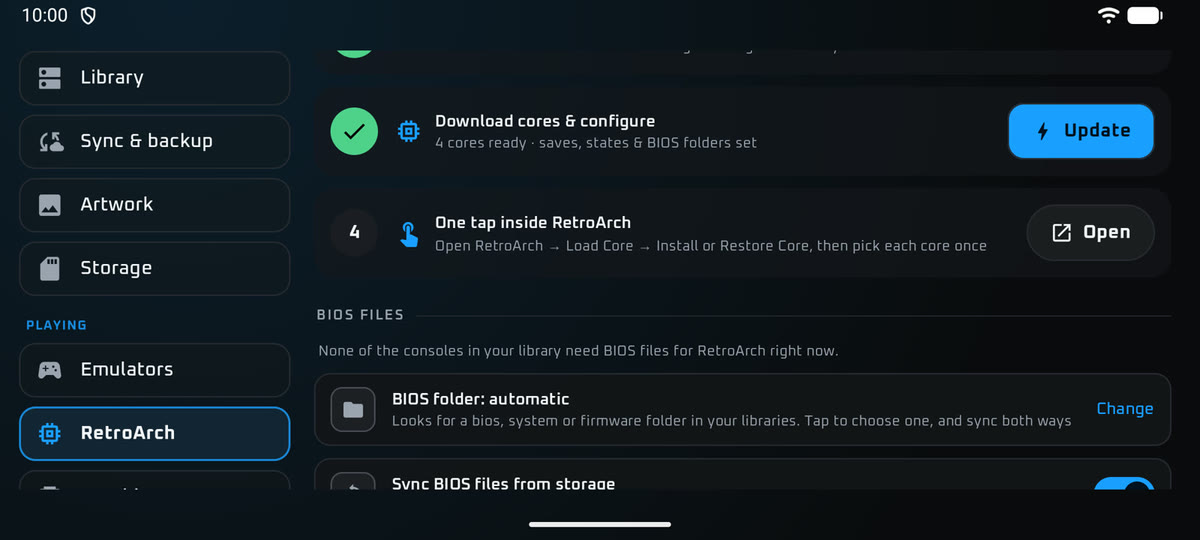
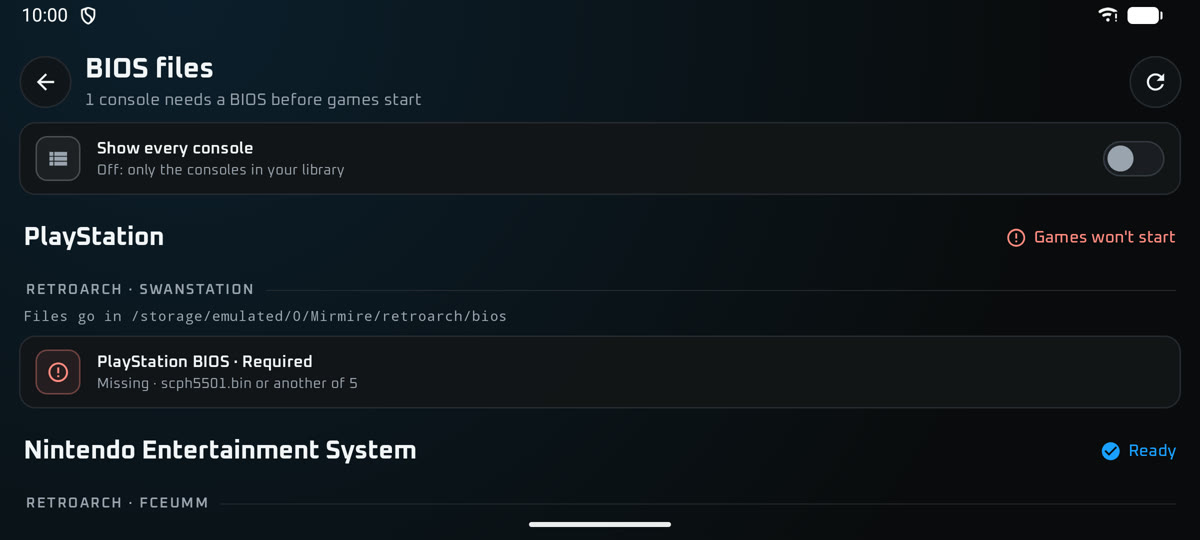
Docs for 1.1.7: BIOS checker, parental controls, Home Assistant, PC game streaming, Syncthing saves, Tailscale libraries and Pegasus/LaunchBox import.

diff --git a/docs/index.html b/docs/index.html
@@ -250,20 +250,22 @@
       <h2>Built around the library you already have</h2>
       <p class="sub">Most launchers expect your games on the device and leave emulators, saves and BIOS files to you. Mirmire is built for a library on your storage, and takes care of the rest.</p>
       <div class="grid">
-        <div class="card"><div class="ic">📡</div><h3>Your NAS is the library</h3><p>Browse thousands of games over SMB, SFTP, WebDAV, FTP or straight from RomM. A game downloads when you press Play, big unplayed games are cleared to free space, and games only on this device upload to the NAS in one tap.</p></div>
-        <div class="card"><div class="ic">🔄</div><h3>Continue anywhere</h3><p>Saves and save states sync with your storage. Pick up another device and carry on from the same moment. Devices without shared storage pair over Wi-Fi.</p></div>
+        <div class="card"><div class="ic">📡</div><h3>Your NAS is the library</h3><p>Browse thousands of games over SMB, SFTP, WebDAV, FTP or straight from RomM. Away from home it keeps working through Tailscale. A game downloads when you press Play, big unplayed games are cleared to free space, and games only on this device upload to the NAS in one tap.</p></div>
+        <div class="card"><div class="ic">🔄</div><h3>Continue anywhere</h3><p>Saves and save states sync with your storage. Pick up another device and carry on from the same moment. Devices without shared storage pair over Wi-Fi or sync through Syncthing.</p></div>
         <div class="card"><div class="ic">⚙</div><h3>RetroArch, set up for you</h3><p>Cores, hotkeys, auto-resume and a sharp picture, with settings for all games, one console or one game, and suggestions for your device. SwanStation for PS1; Beetle Saturn when you want accuracy.</p></div>
         <div class="card"><div class="ic">🧹</div><h3>A clean library</h3><p>One version of each game by your preferred regions. Betas and demos are hidden, and files are checked against No-Intro.</p></div>
-        <div class="card"><div class="ic">🧩</div><h3>BIOS checker</h3><p>See what each console needs and what's missing or the wrong version, then copy the right files from your storage.</p></div>
+        <div class="card"><div class="ic">🧩</div><h3>BIOS checker</h3><p>Every file each emulator needs, checked by checksum, with the exact folder it belongs in. Games tell you before you press Play if their console is missing one.</p></div>
         <div class="card"><div class="ic">✈</div><h3>Pack for a trip</h3><p>Take games offline and play anywhere. Everything syncs back when you're home, and offloading a game keeps its saves.</p></div>
         <div class="card"><div class="ic">💡</div><h3>Stick lights that react</h3><p>On Retroid and AYN handhelds the lights follow the theme, the battery, the console, the cover art or the performance mode.</p></div>
-        <div class="card"><div class="ic">👨👩👧</div><h3>Profiles for the family</h3><p>Each player has their own saves, favorites and play time, with PINs and a content filter for children.</p></div>
+        <div class="card"><div class="ic">👨👩👧</div><h3>Profiles for the family</h3><p>Each player has their own saves, favorites and play time. Child profiles get age ratings, daily play time and a parent PIN.</p></div>
         <div class="card"><div class="ic">💾</div><h3>Backups that travel</h3><p>Back up settings, themes and RetroArch's own settings to your storage, restore on any device, or keep devices in sync.</p></div>
-        <div class="card"><div class="ic">🗂</div><h3>Bring what you already have</h3><p>Artwork ES-DE, RetroArch or LaunchBox already downloaded shows up straight away, and RetroArch's saves, states, settings and BIOS files come over with one tap.</p></div>
+        <div class="card"><div class="ic">🗂</div><h3>Bring what you already have</h3><p>Artwork ES-DE, RetroArch or LaunchBox already downloaded shows up straight away. Favorites, play time and collections come over from Pegasus and LaunchBox, and RetroArch's saves, states, settings and BIOS files with one tap.</p></div>
         <div class="card"><div class="ic">🟩</div><h3>Xbox, PlayStation and Steam</h3><p>Xbox in hakuX, Xbox 360 in Xendroid Plus, PS2 in ARMSX2, PS3 in ARMSX3 or aPS3e, and Steam games from your DroidDeck library. Emulators that aren't on Google Play install from Mirmire in one tap.</p></div>
         <div class="card"><div class="ic">☁</div><h3>Drive &amp; Dropbox via rclone</h3><p>Add an rclone library and point Mirmire at <code>rclone serve webdav</code> on a PC or NAS: Google Drive, Dropbox, OneDrive and more.</p></div>
-        <div class="card"><div class="ic">🗄</div><h3>Works with RomM</h3><p>Already run RomM? Add it as a library: its platforms, covers and details come straight over, games download when you press Play, and saves and states sync to the game's page in RomM.</p></div>
+        <div class="card"><div class="ic">🗄</div><h3>Works with RomM</h3><p>Already run RomM? Sign in and its platforms, covers and details come straight over, games download when you press Play, and saves and states sync to the game's page in RomM.</p></div>
         <div class="card"><div class="ic">🎮</div><h3>Standalone defaults that fit</h3><p>Automatic prefers DuckStation for PS1, Mupen64Plus FZ for N64, WatermelonDS for DS and ARMSX2 for PS2 when those apps are installed.</p></div>
+        <div class="card"><div class="ic">🖥</div><h3>Stream your PC games</h3><p>Games from Moonlight, Artemis or Steam Link get their own Streaming console. Press Play and the stream opens; a game that's also in your Steam library shows once, with a Stream button.</p></div>
+        <div class="card"><div class="ic">🔁</div><h3>Syncthing for saves</h3><p>Sync saves straight between your devices through a Syncthing folder, no NAS needed. Its conflict copies turn into Mirmire's usual question: which save to keep.</p></div>
         <div class="card"><div class="ic">🚀</div><h3>Faster GPU drivers</h3><p>On Snapdragon devices, Mirmire finds your Adreno GPU, suggests the latest custom driver for it and shows how to load it in your emulator.</p></div>
       </div>
     </div>
@@ -284,7 +286,8 @@
         <div class="card"><div class="ic">🌡</div><h3>Learns how hot games run</h3><p>A battery, standard or performance mode for each console, stepping down for games that ran hot. You can turn it off.</p></div>
         <div class="card"><div class="ic">🤖</div><h3>A pal that helps you play</h3><p>Turn on AI and Pixel Pal shares tips about the game you just played, chats when you're stuck, and can float over the game. Use a free cloud AI with your own key, or a model on the device that works offline.</p></div>
         <div class="card"><div class="ic">🏆</div><h3>RetroAchievements everywhere</h3><p>Progress on every game card, the weekly challenge, games close to mastery, and your points and streak at a glance.</p></div>
-        <div class="card"><div class="ic">🖥</div><h3>Your launcher, if you like</h3><p>Set Mirmire as the home app on a handheld or TV box, with your other apps one press away.</p></div>
+        <div class="card"><div class="ic">🏠</div><h3>Home Assistant</h3><p>Dim the lights when a game starts on the TV, or run any scene or script when you play, stop or step away.</p></div>
+        <div class="card"><div class="ic">📱</div><h3>Your launcher, if you like</h3><p>Set Mirmire as the home app on a handheld or TV box, with your other apps one press away.</p></div>
       </div>
     </div>
   </section>
@@ -296,7 +299,7 @@
           <p class="kicker">Sync &amp; continue</p>
           <h3>Start on your phone, finish on your handheld</h3>
           <p>Saves, save states and favorites sync with your storage. When another of your devices played a game more recently, the home screen offers to continue it, with that device's save and save state.</p>
-          <ul><li>No account or sign-up</li><li>Devices sharing storage need no setup</li><li>Others pair once over Wi-Fi with a 6-digit code</li><li>Played on two devices offline? Pick the save to keep, or keep both</li></ul>
+          <ul><li>No account or sign-up</li><li>Devices sharing storage need no setup</li><li>Others pair once over Wi-Fi with a 6-digit code, or use Syncthing</li><li>Played on two devices offline? Pick the save to keep, or keep both</li></ul>
         </div>
         <div class="pair"><img class="shot" src="images/site/61-settings-sync.jpg" alt="Sync &amp; backup settings with save sync turned on" loading="lazy"><img class="shot" src="images/site/47-continue.jpg" alt="Continue on another device settings" loading="lazy"></div>
       </div>
@@ -314,11 +317,20 @@
           <p class="kicker">Library cleanup</p>
           <h3>One copy of each game, verified</h3>
           <p>Big collections often have several versions of every game. Mirmire shows the best one for your regions, hides betas and demos, and checks files against No-Intro.</p>
-          <ul><li>Your region order, with fallbacks</li><li>Games you've played always stay</li><li>A filter shows anything that failed the check</li></ul>
+          <ul><li>Your region order, with fallbacks</li><li>Games you've played always stay</li><li>A filter shows anything that failed the check</li><li>BIOS files checked by checksum, per emulator</li></ul>
         </div>
-        <div class="pair"><img class="shot" src="images/site/45-library-cleanup.jpg" alt="Library cleanup settings" loading="lazy"><img class="shot" src="images/site/48-bios.jpg" alt="BIOS checker" loading="lazy"></div>
+        <div class="pair"><img class="shot" src="images/site/45-library-cleanup.jpg" alt="Library cleanup settings" loading="lazy"><img class="shot" src="images/site/48-bios.jpg" alt="The BIOS checker listing each console's files with their status" loading="lazy"></div>
       </div>
       <div class="row flip">
+        <div class="text">
+          <p class="kicker">Parental controls</p>
+          <h3>Games that fit their age</h3>
+          <p>Turn a player into a child profile and Mirmire shows only games rated for their age, using ESRB, PEGI and CERO ratings from ScreenScraper, RomM and LaunchBox.</p>
+          <ul><li>Daily play time, or different limits on some days</li><li>Allow or block single games</li><li>A parent PIN guards it all</li><li>A running game is never cut off</li></ul>
+        </div>
+        <div class="pair"><img class="shot" src="images/site/67-parental.jpg" alt="Parental controls settings for a child profile" loading="lazy"><img class="shot" src="images/site/68-parental-time.jpg" alt="Daily play time limit for a child profile" loading="lazy"></div>
+      </div>
+      <div class="row">
         <div class="text">
           <p class="kicker">Spotlight</p>
           <h3>Something to play, every day</h3>
@@ -326,7 +338,7 @@
         </div>
         <img class="shot" src="images/site/40-spotlight.jpg" alt="Spotlight tab" loading="lazy">
       </div>
-      <div class="row">
+      <div class="row flip">
         <div class="text">
           <p class="kicker">Home page</p>
           <h3>A home screen of your own</h3>
@@ -335,7 +347,7 @@
         </div>
         <div class="pair"><img class="shot" src="images/site/53-home-page.jpg" alt="The Home page with clock, Pixel Pal, continue playing, achievements and library widgets" loading="lazy"><img class="shot" src="images/site/55-pixel-pet.jpg" alt="Pixel Pal settings with AI hints turned on" loading="lazy"></div>
       </div>
-      <div class="row flip">
+      <div class="row">
         <div class="text">
           <p class="kicker">Pixel Pal &amp; AI</p>
           <h3>A companion that knows what you played</h3>
@@ -401,6 +413,10 @@
         <figure><img src="images/site/49-pack-trip.jpg" alt="Pack for a trip" loading="lazy"><figcaption>Pack for a trip</figcaption></figure>
         <figure><img src="images/site/51-profiles.jpg" alt="Profiles" loading="lazy"><figcaption>Profiles</figcaption></figure>
         <figure><img src="images/site/52-backups.jpg" alt="Backups" loading="lazy"><figcaption>Backups</figcaption></figure>
+        <figure><img src="images/site/70-streaming.jpg" alt="Game streaming settings with Add streamed game and Get Moonlight" loading="lazy"><figcaption>PC games, streamed</figcaption></figure>
+        <figure><img src="images/site/71-syncthing.jpg" alt="Syncthing save sync settings" loading="lazy"><figcaption>Syncthing</figcaption></figure>
+        <figure><img src="images/site/69-home-assistant.jpg" alt="Connecting Home Assistant with its address and an access token" loading="lazy"><figcaption>Home Assistant</figcaption></figure>
+        <figure><img src="images/site/73-frontend-import.jpg" alt="Bring over from other frontends in Library settings" loading="lazy"><figcaption>Bring over from Pegasus or LaunchBox</figcaption></figure>
         <figure><img src="images/site/64-home-edit.jpg" alt="Editing the Home page: drag, resize or remove widgets" loading="lazy"><figcaption>Edit the Home page</figcaption></figure>
       </div>
     </div>

diff --git a/docs/GUIDE.md b/docs/GUIDE.md
@@ -2,12 +2,12 @@
 
 Everything Mirmire does, grouped the same way as its Settings.
 
-**Getting started:** [Install](#install) · [First-time setup](#first-time-setup) · [Adding your games](#adding-your-games) · [rclone (Google Drive, Dropbox, OneDrive)](#rclone-google-drive-dropbox-onedrive) · [RomM](#romm)  
+**Getting started:** [Install](#install) · [First-time setup](#first-time-setup) · [Adding your games](#adding-your-games) · [rclone (Google Drive, Dropbox, OneDrive)](#rclone-google-drive-dropbox-onedrive) · [RomM](#romm) · [Game streaming](#game-streaming-moonlight-and-steam-link)  
 **Playing:** [Browsing and playing](#browsing-and-playing) · [Home page and widgets](#home-page-and-widgets) · [Big Picture](#big-picture) · [Dual screen](#dual-screen) · [Controls](#controls) · [Spotlight and play time](#spotlight-and-play-time) · [RetroAchievements](#retroachievements) · [AI](#ai)  
 **Emulators:** [Emulators and RetroArch](#emulators-and-retroarch) · [BIOS files](#bios-files) · [GPU drivers](#gpu-drivers) · [Performance modes and stick lights: one-time setup](#performance-modes-and-stick-lights-one-time-setup)  
 **Your library:** [Library cleanup](#library-cleanup) · [Artwork](#artwork) · [Storage](#storage) · [Pack for a trip](#pack-for-a-trip)  
-**Sync and backup:** [Save sync](#save-sync) · [Continue on another device](#continue-on-another-device) · [Backups](#backups)  
-**Make it yours:** [Themes and layout](#themes-and-layout) · [Profiles](#profiles) · [Stick lights](#stick-lights) · [Home screen widget](#home-screen-widget)  
+**Sync and backup:** [Save sync](#save-sync) · [Continue on another device](#continue-on-another-device) · [Syncthing](#syncthing) · [Backups](#backups)  
+**Make it yours:** [Themes and layout](#themes-and-layout) · [Profiles](#profiles) · [Parental controls](#parental-controls) · [Home Assistant](#home-assistant) · [Stick lights](#stick-lights) · [Home screen widget](#home-screen-widget)  
 **Help:** [Updates](#updates) · [Android settings](#android-settings) · [Troubleshooting](#troubleshooting)
 
 
@@ -53,6 +53,8 @@ Open **Settings › Library › Add library**. Mirmire looks for servers on your
 
 If signing in fails, Mirmire says why: wrong username or password, server not found, couldn't reach the server, connection timed out, folder or share not found, or permission denied.
 
+**Away from home with Tailscale.** If you use [Tailscale](https://tailscale.com), fill in **Away from home (optional)** with the NAS's Tailscale name or 100.x address, for example `nas.tail1234.ts.net`. Mirmire tries the home address first and switches to the Tailscale one when the home address doesn't answer, so the same library works on your Wi-Fi and on the road. After **Test**, the editor shows which address is in use, and each library in the list is marked **Home** or **Tailscale**. It works for SMB, SFTP, WebDAV, rclone, FTP and RomM libraries. Mirmire doesn't include Tailscale: install the Tailscale app and sign in, and Mirmire shows whether it's connected.
+
 **Folder layout.** Put each console's games in a folder named after the console, for example:
 
 ```
@@ -76,6 +78,20 @@ After adding a library, press **Sync now**. Mirmire lists your games without dow
 
 
 **Upload local games to storage.** If you already have games in your **local game folder** that aren't on the network library (or are incomplete there), open **Settings › Library › Upload local games to storage**. Mirmire uploads only what's missing; files already on the NAS at full size are left alone. Uses the same Wi‑Fi / Ethernet-only setting as downloads.
+
+### Bring over from Pegasus or LaunchBox
+
+**Settings › Library › Bring over from other frontends** finds Pegasus and LaunchBox folders on the device, or you can pick one. Before anything changes, it shows what it found: matched games, new favorites, play time and plays to add, pictures, collections, and the games it couldn't match. Then press **Import**.
+
+![Bring over from other frontends](../screenshots/73-frontend-import.jpg)
+
+- **Pegasus:** `metadata.pegasus.txt` collections and games, `media/` pictures, favorites and play time.
+- **LaunchBox:** platform files, playlists (as collections), and the Images, Videos and Manuals folders.
+- Games are matched by path, then file name, then title within the console. Play time is only ever added, and importing again adds only what's new.
+- Pictures fill in games that have none of that kind. Turn on **Use their artwork everywhere** to replace Mirmire's own.
+- Imported collections open as game lists.
+
+Daijishō keeps its data private to the app, so it can't be imported. ES-DE gamelists are read automatically when you add a library.
 
 ## rclone (Google Drive, Dropbox, OneDrive)
 
@@ -104,6 +120,20 @@ If the test fails, Mirmire says why: RomM didn't accept the sign-in, the address
 **Saves.** With [Save sync](#save-sync) on, saves and save states for RomM games are stored as RomM saves and states on the game's page in RomM. That means RomM's web player and other RomM apps see them too. Saves made with a core-specific folder, or by another Mirmire profile, are labelled with the core or profile name in RomM's emulator field. Mirmire's own bookkeeping, such as earlier versions of a save and the note of which device saved last, stays on the device. If you set a central saves folder on another library, RomM games' saves go there instead.
 
 **Not yet covered:** RomM collections and firmware (BIOS) files, and uploading games to RomM. Add games in RomM itself and run a scan there, then press **Sync now** in Mirmire.
+
+## Game streaming (Moonlight and Steam Link)
+
+Games you stream from your PC can sit in Mirmire next to everything else, under a **Streaming** console. You need [Moonlight](https://moonlight-stream.org) (or Artemis) with Sunshine on the PC, or Steam Link.
+
+![Game streaming](../screenshots/70-streaming.jpg)
+
+1. Open **Settings › Library › Game streaming** and choose **Add a streamed game**.
+2. Enter the **PC name** as Moonlight lists it and the game's name, like `Desktop` or `Hades`. Add the **PC address** and press **Look up** to check the PC answers, or **Paste a Moonlight shortcut** instead.
+3. For Steam Link, choose **Add Steam Link**. It opens Steam Link, where you pick the game.
+
+When Mirmire is your home app, Moonlight's **Create shortcut** on a PC or a game adds it to Mirmire too.
+
+Press Play and the game opens straight in Moonlight. If a streamed game is also in your Steam library, it shows once, as the Steam game, with a **Stream** button. Moonlight doesn't let other apps read its list of PCs and games, so each one is added once by hand or by shortcut.
 
 ## Browsing and playing
 
@@ -330,7 +360,9 @@ Holding **Start** also opens RetroArch's menu.
 
 ## BIOS files
 
-**Settings › RetroArch › BIOS files** lists the consoles in your library that use BIOS files, with what's found, missing or the wrong version, checked against libretro's BIOS checksums. Tap a console for the file names and where they go.
+**Settings › RetroArch › Check BIOS files** checks every BIOS file the consoles in your library need, for each emulator and RetroArch core. Each file is checked by its MD5 checksum against libretro's list, and marked **Required**, **Recommended** or **Optional**. It shows whether the file is there and good, missing, the wrong version, or sitting in the wrong folder, and names the exact folder it belongs in. Standalone emulators are checked too, such as DuckStation, AetherSX2, Dolphin and Redream. Some emulators keep their files in a private folder that Android doesn't let other apps read; those are marked **Can't check**. Turn on **Show every console** to see consoles you don't have games for yet.
+
+When a console is missing a file its games need, the row at the top says **Games won't start**, and those games' pages show a note that opens the BIOS page.
 
 ![BIOS files](../screenshots/48-bios.jpg)
 
@@ -420,6 +452,14 @@ To push games from the local game folder **up** to a network library when they'r
 
 Uploads in the background, such as when the screen turns off, never ask: they keep the question for the next time you open the game.
 
+### Syncthing
+
+If you already use [Syncthing](https://syncthing.net) (Syncthing-Fork, BasicSync or the original app), your saves can sync through it, straight between your devices with no NAS. Open **Settings › Sync & backup › Syncthing**, turn on **Sync saves through Syncthing** and choose the **Syncthing folder** your saves should go to. Paste Syncthing's API key, found in its settings, to pick from its shared folders and see whether the folder is up to date. Without a key, you can pick the folder yourself.
+
+![Syncthing](../screenshots/71-syncthing.jpg)
+
+Saves and states use the same layout and earlier versions as other save storage. Mirmire waits while Syncthing is still bringing this game's files over, and asks it to rescan after a save. When Syncthing finds the same save changed on two devices, its conflict copy turns into the usual **Which save should Mirmire keep?** question, naming the other device. Syncthing's leftover conflict files are then tidied up.
+
 ## Continue on another device
 
 When another of your devices played a game more recently, the home screen offers **Continue**: the game opens here with that device's save and save state, so with **Resume where you left off** on you're right where you stopped.
@@ -468,6 +508,33 @@ Making your own theme, icon pack or widget plugin: try **[Theme Studio](https://
 - **Content filter** (for a child's profile): only the consoles you allow, without the genres you hide. A filtered player can't see hidden games and needs a parent's PIN to open Settings, so set a PIN on your own profile.
 
 RetroAchievements uses one account for every player.
+
+## Parental controls
+
+**Settings › Parental controls** turns a player into a **Child profile** with age ratings, allowed games and play time limits, all kept behind a **Parent PIN**.
+
+| ![Parental controls](../screenshots/67-parental.jpg) | ![Daily play time for a child](../screenshots/68-parental-time.jpg) |
+|---|---|
+
+- **Set a parent PIN** first. It's asked to change these settings, open Settings, or leave a child's profile, and it's entered with the D-pad or touch.
+- **Highest age rating:** a child sees only games rated up to that age. Ratings come from ScreenScraper (ESRB, PEGI and CERO), from RomM's game details, and from LaunchBox if you choose **Read ratings from LaunchBox**. Where boards disagree, the strictest wins.
+- **Games without a rating** can be allowed, or blocked until you allow them one by one.
+- **Allowed** and blocked games override the rating, and **Set a game's age rating** fixes a rating that's missing or wrong.
+- **Play time:** no limit, the same limit every day, or different limits on some days. Mirmire warns before time runs out, and a game that's already running is never closed.
+
+A game the child can't play is hidden. If they reach it anyway, Mirmire explains why and a parent can allow it, or add time **Just for today**, with the PIN.
+
+## Home Assistant
+
+**Settings › Home Assistant** lets your home react to what you play: dim the lights when a game starts on the TV, or run a scene when you stop.
+
+![Home Assistant](../screenshots/69-home-assistant.jpg)
+
+1. Enter your Home Assistant **Address** and a **Long-lived access token** (in Home Assistant, open your profile › **Security**), then press **Save & test**.
+2. Add actions for **game started**, **game stopped**, **TV dock on or off**, **idle**, or **back from idle**. Each one can **Fire event** (`mirmire_game_started` and so on) or **Call service**, like `light.turn_on` or `script.movie_mode`. Use **Pick from Home Assistant** to choose one.
+3. Optional JSON data can use `{game}`, `{console}`, `{device}` and `{playtime_minutes}`. **Only when on TV dock** skips the action on the handheld screen.
+
+**Test now** runs an action straight away, and each action shows how its last run went. The token is stored encrypted and never backed up.
 
 ## Stick lights
 

diff --git a/README.md b/README.md
@@ -26,11 +26,11 @@ Most launchers expect your games on the device and leave the emulators, saves an
 
 ### 📡 Your NAS is the library
 
-Browse thousands of games over SMB, SFTP, WebDAV or FTP with full artwork, straight from your [RomM](docs/GUIDE.md#romm) server with its covers and saves, or from Google Drive, Dropbox and OneDrive through [rclone](docs/RCLONE.md). Nothing is copied ahead of time: a game downloads when you press Play, and big games you haven't played in a while are cleared to free space. Artwork that ES-DE, RetroArch or LaunchBox already downloaded shows up straight away.
+Browse thousands of games over SMB, SFTP, WebDAV or FTP with full artwork, straight from your [RomM](docs/GUIDE.md#romm) server with its covers and saves, or from Google Drive, Dropbox and OneDrive through [rclone](docs/RCLONE.md). Away from home, the same library keeps working through [Tailscale](docs/GUIDE.md#adding-your-games). Nothing is copied ahead of time: a game downloads when you press Play, and big games you haven't played in a while are cleared to free space. Artwork that ES-DE, RetroArch or LaunchBox already downloaded shows up straight away, and favorites, play time and collections come over from [Pegasus and LaunchBox](docs/GUIDE.md#bring-over-from-pegasus-or-launchbox).
 
 ### 🔄 Pick up where you left off, on any device
 
-Saves, save states and favorites sync with your storage. Pick up your handheld and the home screen offers to continue the game you were playing on your phone, from the same moment. Press power mid-game and your saves upload before the device sleeps. Devices without shared storage pair over Wi-Fi with a 6-digit code. Played the same game on two devices before they synced? Mirmire asks which save to keep, or keeps both, and never overwrites progress.
+Saves, save states and favorites sync with your storage. Pick up your handheld and the home screen offers to continue the game you were playing on your phone, from the same moment. Press power mid-game and your saves upload before the device sleeps. Devices without shared storage pair over Wi-Fi with a 6-digit code, or sync saves through [Syncthing](docs/GUIDE.md#syncthing). Played the same game on two devices before they synced? Mirmire asks which save to keep, or keeps both, and never overwrites progress.
 
 | Sync & backup | Continue on another device |
 |---|---|
@@ -48,7 +48,7 @@ Original Xbox plays in hakuX, Xbox 360 in Xendroid Plus, PS2 in ARMSX2, PS3 in A
 
 ### 🧹 A clean, complete library
 
-One version of each game, picked by your preferred regions. Betas and demos are hidden, files are checked against No-Intro so bad dumps stand out, and the BIOS checker shows what each console needs and copies the right files from your storage.
+One version of each game, picked by your preferred regions. Betas and demos are hidden, files are checked against No-Intro so bad dumps stand out, and the BIOS checker tests every file each emulator needs by checksum, says exactly which folder it belongs in, and copies the right files from your storage. A game whose console is missing one tells you before you press Play.
 
 | Library cleanup | BIOS files |
 |---|---|
@@ -65,6 +65,18 @@ Turn on AI in **Settings › AI** and Pixel Pal shares tips about the game you j
 | ![Edit the Home page](screenshots/64-home-edit.jpg) | ![Pixel Pal](screenshots/55-pixel-pet.jpg) |
 | **Welcome back** | **Chat while you play** |
 | ![Pixel Pal welcomes you back after a game](screenshots/66-home-welcome.jpg) | ![Chat with Pixel Pal over a running game](screenshots/65-pal-chat.jpg) |
+
+### 🖥 Your PC games, streamed
+
+Games you stream with Moonlight, Artemis or Steam Link sit in their own **Streaming** console, next to everything else. Press Play and the game opens straight in the stream. A streamed game that's also in your Steam library shows once, with a **Stream** button.
+
+### 👨👩👧 Parental controls
+
+Child profiles see only games up to the age you choose, using ESRB, PEGI and CERO ratings from ScreenScraper, RomM and LaunchBox. Set daily play time, allow or block single games, and keep it all behind a parent PIN. A running game is never cut off.
+
+| Parental controls | Daily play time |
+|---|---|
+| ![Parental controls](screenshots/67-parental.jpg) | ![Daily play time for a child](screenshots/68-parental-time.jpg) |
 
 ### 📺 Big Picture and 🪟 dual screen
 
@@ -84,7 +96,8 @@ On Retroid and AYN handhelds, the stick lights follow the theme, the battery lev
 
 ### And more
 
-- **👨👩👧 Profiles:** each player has their own saves, favorites and play time, with PINs and a content filter for children.
+- **👥 Profiles:** each player has their own saves, favorites and play time, with PINs.
+- **🏠 Home Assistant:** dim the lights when a game starts on the TV, or run any scene or script when you play, stop or step away.
 - **✈ Pack for a trip:** choose games to take offline. Everything syncs back when you're home.
 - **🎮 Play together:** invite a paired device on the same Wi-Fi to a netplay game.
 - **🌡 Learns how hot each game runs:** a battery, standard or performance mode per console, stepping down for games that ran hot.
@@ -166,6 +179,8 @@ Get the latest APK from [Releases](https://github.com/Mirmire-Launcher/mirmire/r
 | ![Look](screenshots/18-settings-look.jpg) | ![Style](screenshots/18b-look-icons.jpg) |
 | **Layout** | **Controls** |
 | ![Layout](screenshots/19-settings-layout.jpg) | ![Controls](screenshots/20-settings-controls.jpg) |
+| **Parental controls** | **Home Assistant** |
+| ![Parental controls](screenshots/67-parental.jpg) | ![Home Assistant](screenshots/69-home-assistant.jpg) |
 | **Device** | **System** |
 | ![Device](screenshots/62-settings-device.jpg) | ![System](screenshots/22-settings-system.jpg) |
 | **App updates** | **Reset settings** |
